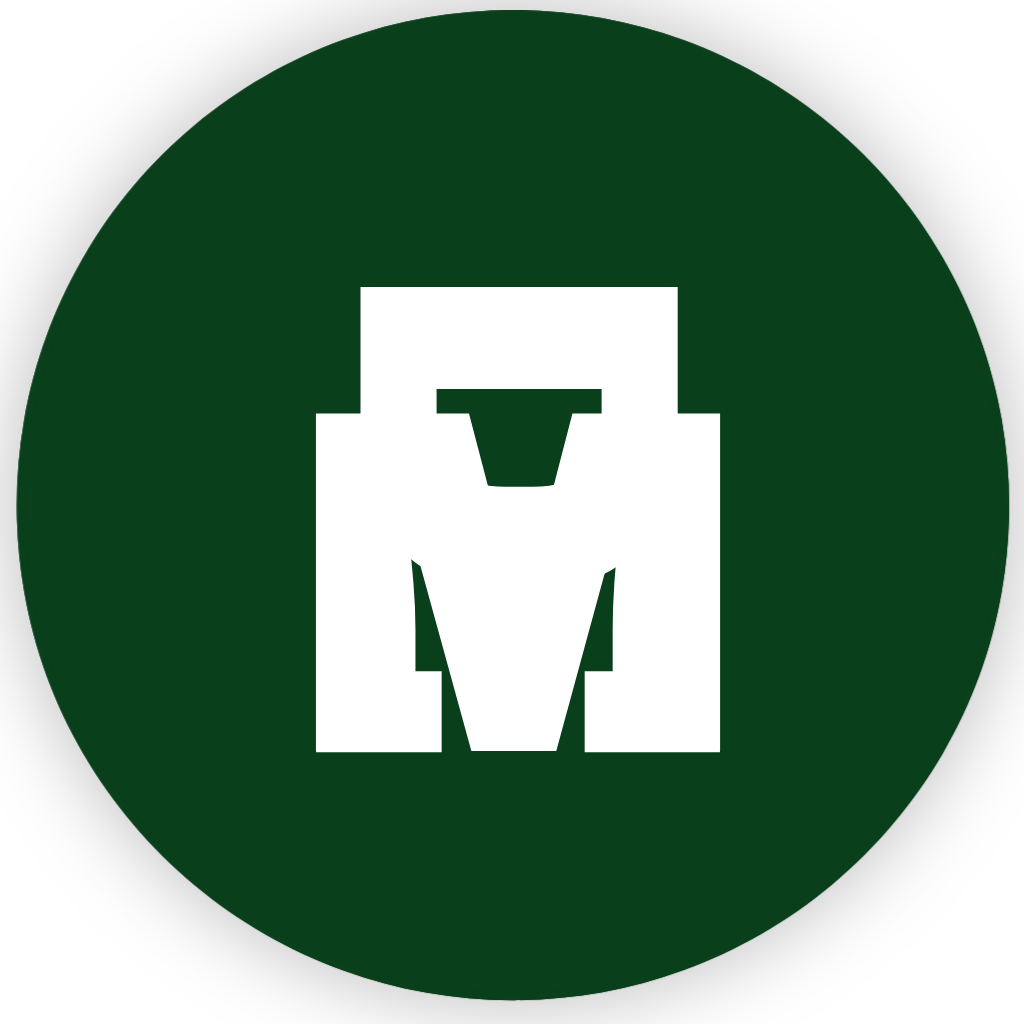
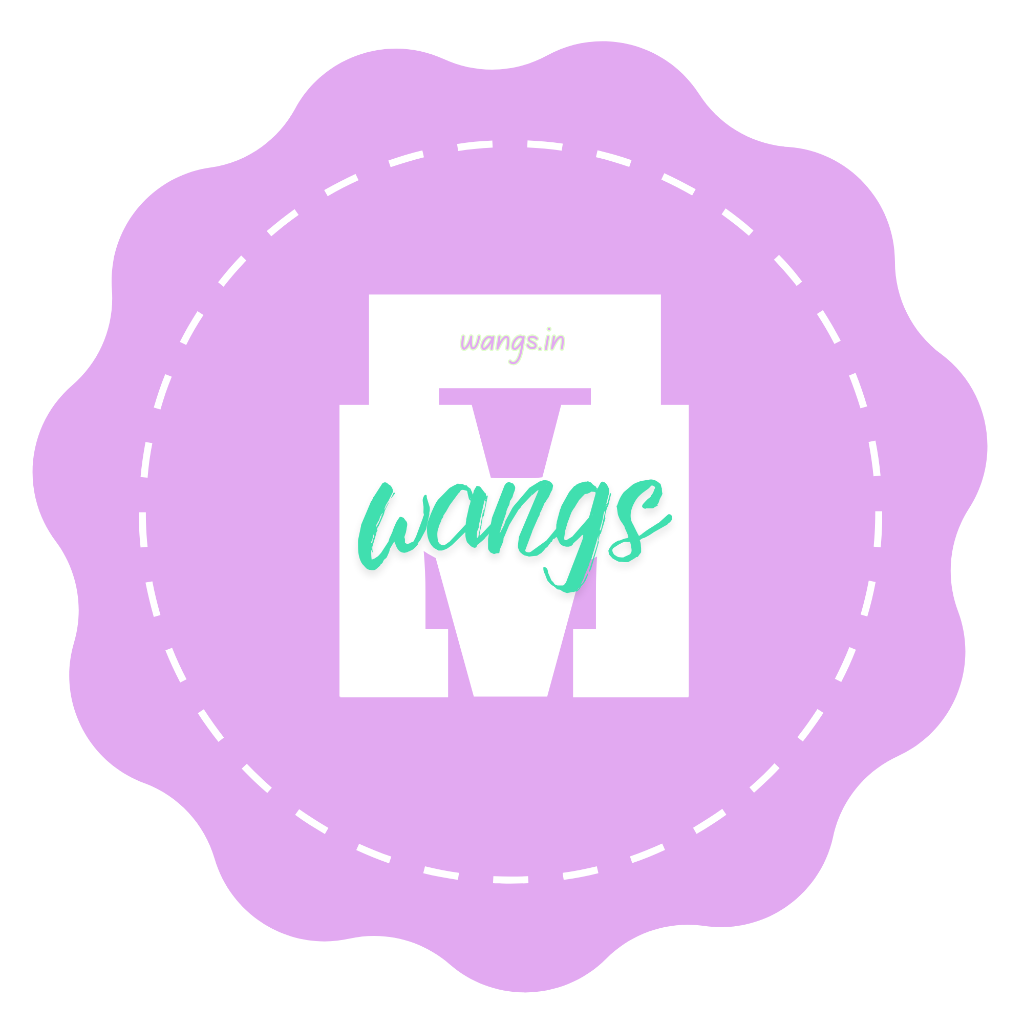
assets: replace packaging sticker with new scalloped wangs.in emblem

diff --git a/wangs_frontend/src/components/ManufacturerDeliveryTab.jsx b/wangs_frontend/src/components/ManufacturerDeliveryTab.jsx
@@ -498,7 +498,7 @@ export default function ManufacturerDeliveryTab({ profile, toast }) {
                 Wangs Official Tamper-Evident Packing Sticker
               </h3>
               <p className="text-xs sm:text-sm text-emerald-100 leading-relaxed">
-                Download the official scalloped green packing sticker badge. Affix onto your artisanal packaging boxes, kraft pouches, and container caps before dispatching to SwiftZone couriers or bus station drop-offs.
+                Download the official scalloped packing sticker badge. Affix onto your artisanal packaging boxes, kraft pouches, and container caps before dispatching to SwiftZone couriers or bus station drop-offs.
               </p>
 
               <div className="flex items-center gap-3 pt-2 flex-wrap">
@@ -569,7 +569,7 @@ export default function ManufacturerDeliveryTab({ profile, toast }) {
               <div className="w-8 h-8 rounded-xl bg-emerald-50 text-emerald-800 flex items-center justify-center font-bold">2</div>
               <h4 className="font-serif font-bold text-stone-900 text-sm">Seal with Wangs Sticker</h4>
               <p className="text-stone-500 leading-relaxed">
-                Place the scalloped green sticker across the top box seam or container lid. Customers inspect this seal upon delivery confirmation.
+                Place the scalloped sticker across the top box seam or container lid. Customers inspect this seal upon delivery confirmation.
               </p>
             </div>
             <div className="bg-white p-5 rounded-3xl border border-stone-200/90 shadow-2xs space-y-2">
